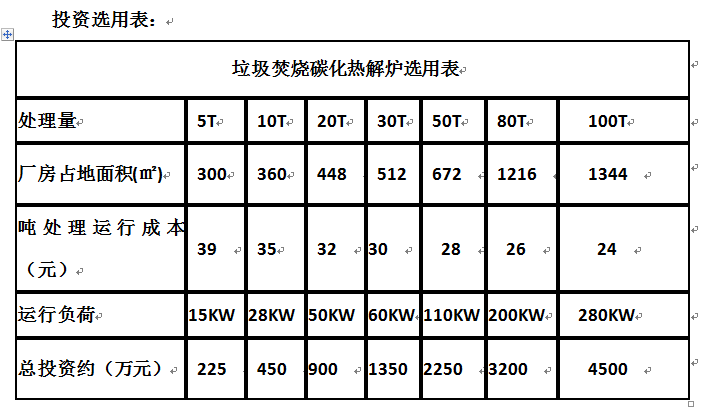
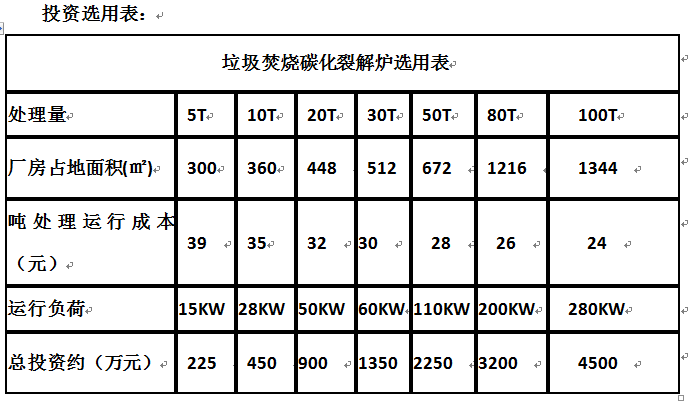
7tn

Changed region(s): [[0.0, 0.0, 0.9957, 1.0], [0.8448, 0.5672, 0.9353, 0.6269]]

diff --git a/tpl/ynhdkc/Portal/contact.html b/tpl/ynhdkc/Portal/contact.html
@@ -57,7 +57,7 @@
             </article>
 
             <article class="col-sm-8 maincontent">
-                <p>麦祥环保采用垃圾碳化裂解技术，设计生产的垃圾碳化裂解气化处理系统，是一种新型节能的热解处理系统，该系统由预处理、自动上料、热解、余热回收、急冷脱酸、烟气净化和自动控制7大系统组成。</p>
+                <p>麦祥环保采用垃圾碳化裂解技术，设计生产的垃圾碳化裂解气化处理系统，是一种新型节能的裂解处理系统，该系统由预处理、自动上料、裂解、余热回收、急冷脱酸、烟气净化和自动控制7大系统组成。</p>
                 <p><img src="__TMPL__Public/assets/images/1.jpg" alt="" class="" width="100%" ></p>
                 <p><img src="__TMPL__Public/assets/images/2.jpg" alt="" class="" width="100%" ></p>
                 <p><img src="__TMPL__Public/assets/images/3.jpg" alt="" class="" width="100%" ></p>
@@ -65,7 +65,7 @@
                 <p><img src="__TMPL__Public/assets/images/5.jpg" alt="" class="" width="100%" ></p>
                 <p><img src="__TMPL__Public/assets/images/6.jpg" alt="" class="" width="100%" ></p>
                 <h3>核心设备</h3>
-                <p>其核心设备垃圾碳化裂解炉及二燃室具有自主知识产权，是将国际流行的热解气化技术同我国传统的炉床炉燃烧稳定的机理有机结合，利用磁芯组件及电磁波产生的负离子的原子波动，在中心部产生1200～1300℃、在中心部外侧产生200～300℃的热能，去除有机废弃物的水分后进行碳化处理。热解炉主燃室及二燃室采用独特设计，在炉膛内设有高温火墙及多功能旋转炉排，使热能得以集中和充分利用，无需辅助燃料，仅靠废物自燃即能将垃圾处理成为可利用的废渣，并且将垃圾在分解过程中产生的含二噁英类的烟气进行再次处理，使二噁英类物质在处理过程中分解为无害气体，排放出少量不含二噁英类物质的烟气。</p>
+                <p>其核心设备垃圾碳化裂解炉及二燃室具有自主知识产权，是将国际流行的裂解气化技术同我国传统的炉床炉燃烧稳定的机理有机结合，利用磁芯组件及电磁波产生的负离子的原子波动，在中心部产生1200～1300℃、在中心部外侧产生200～300℃的热能，去除有机废弃物的水分后进行碳化处理。裂解炉主燃室及二燃室采用独特设计，在炉膛内设有高温火墙及多功能旋转炉排，使热能得以集中和充分利用，无需辅助燃料，仅靠废物自燃即能将垃圾处理成为可利用的废渣，并且将垃圾在分解过程中产生的含二噁英类的烟气进行再次处理，使二噁英类物质在处理过程中分解为无害气体，排放出少量不含二噁英类物质的烟气。</p>
                 <p><img src="__TMPL__Public/assets/images/7.jpg" alt="" class="" width="100%" ></p>
                 <p><img src="__TMPL__Public/assets/images/8.jpg" alt="" class="" width="100%" ></p>
                 <p><img src="__TMPL__Public/assets/images/9.jpg" alt="" class="" width="100%" ></p>
@@ -83,7 +83,7 @@
                 <p>独特的设备结构可保证系统节约能耗。传统焚烧炉，如炉排炉、循环流化床、回转窑式焚烧炉在垃圾处理过程中，垃圾需要翻转、抛起或搅拌翻动，动力消耗大，而碳化裂解炉投料后，垃圾依靠重力自上向下运行，完成烘干、裂解、燃烬过程，无动力消耗。</p>
                 <p>完善的烟气处理系统可保证系统节约能耗。垃圾裂解处理过程是在低氧的状态下进行，可有效的抑制有毒类物质的生成，其它有害气体成分也较少，处理工艺简单，整套系统风压小，可节约大量能耗；烟气量小，烟气温度相对较高，可有效的分解二噁英类物质；烟气在炉内是逆流式物流方向，烟气上升气流的阻力大，流速相对较低，烟气中夹带的颗粒物也较少，减少了对后续设备的磨损，降低维护费用，同时飞灰量小，处理成本低。</p>
                 <h3>垃圾碳化裂解工艺原理：</h3>
-                <img src="__TMPL__Public/assets/images/垃圾热解焚烧工艺原理.jpg" alt="" class="" width="100%" ><br/>
+                <img src="__TMPL__Public/assets/images/垃圾裂解焚烧工艺原理.jpg" alt="" class="" width="100%" ><br/>
                 <h3>碳化裂解工艺流程图</h3>
                 <img src="__TMPL__Public/assets/images/liucheng33.png" alt="" class="" width="100%" ><br/>
                 <h3>垃圾碳化裂解结构</h3><br/>

diff --git a/tpl/ynhdkc/Public/head.html b/tpl/ynhdkc/Public/head.html
@@ -47,13 +47,17 @@ font-size:16px;font-style:normal;}
     margin: 2px 0 0;
 }
 
-#head img.img-circle {
+#head div.img-circle {
     display: block;
-    width: 140px;
-    height: 140px;
+    width: 65px;
+    height: 65px;
     overflow: hidden;
     border: 0;
     margin: 0 auto;
+}
+
+.home #head {
+    padding: 120px 0;
 }
 
 
@@ -69,9 +73,10 @@ font-size:16px;font-style:normal;}
 	<div id="head" class="parallax" parallax-speed="2">
 		<h1 id="logo" class="text-center">
 			<if condition="$img eq 1">
-			<img class="img-circle" src="__TMPL__Public/assets/images/guy4.jpg"  alt=""></if>
+				<div class='img-circle'></div>
+			<!-- <img class="img-circle" src="__TMPL__Public/assets/images/guy4.jpg"  alt=""> --></if>
 			<span class="title">麦祥环保设备</span>
-			<span class="tagline"><b style="font-size: 30px; color:#000000">
+			<span class="tagline"><b style="font-size: 35px; color:#000000">
 				<div class="row">
 				<div class="col-sm-12 col-md-12" style="line-height: 120%">城市综合体·生活垃圾解决方案</div>
 			    </div>
